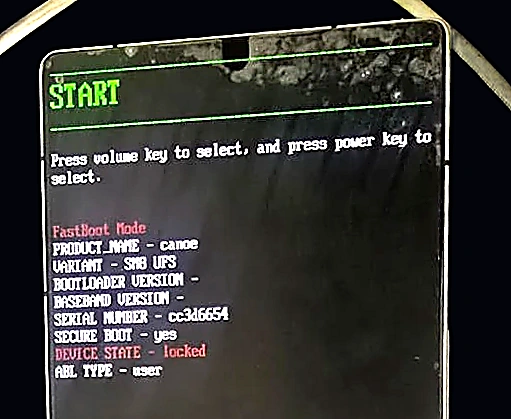
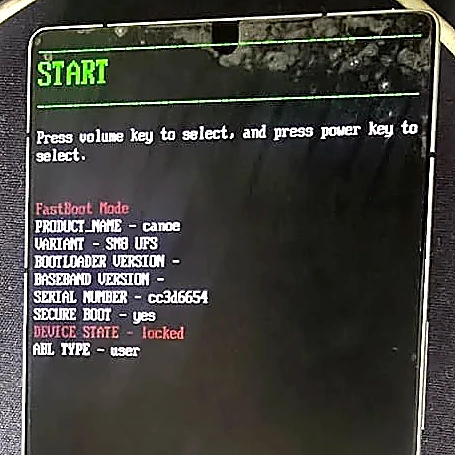
Sharpen phone photos without matting, add real abl flash/unlock-warning screenshots, downloads-organizer script
Re-did the 6 phone photos with a tight crop straight off the source
(no background-removal matting, which was the actual cause of the
remaining blur) instead of further sharpening an already-degraded
image. Found and added three more real ZTE Family Toolbox screenshots
from the original export: the actual abl_a/abl_b flash log with
"刷入完成", the unlock disclaimer screen, and the live 9008 reconnect
during the retry - so Fase 03-05 each have their own real image
instead of one shared screenshot. Also added the corrupted-firmware
7-Zip error as evidence for that troubleshooting row, a model-family
callout answering "does this work on other RedMagic phones", a
RustDesk note in the help section, and an explicit "where do downloads
go" sub-step with a PowerShell script (Organize-RedMagicDownloads.ps1)
that sorts the downloaded tools into C:\ZTE automatically.

diff --git a/src/pages/RootRedMagic11Pro.jsx b/src/pages/RootRedMagic11Pro.jsx
@@ -13,6 +13,11 @@ import toolboxSession from '../assets/redmagic-guide/toolbox-session.webp'
 import toolboxOpening from '../assets/redmagic-guide/toolbox-opening.webp'
 import toolboxMenu from '../assets/redmagic-guide/toolbox-menu.webp'
 import toolboxModelSelect from '../assets/redmagic-guide/toolbox-model-select.webp'
+import toolboxUnlockWarningText from '../assets/redmagic-guide/toolbox-unlock-warning-text.webp'
+import toolboxAblFlash from '../assets/redmagic-guide/toolbox-abl-flash.webp'
+import toolboxUnlockRun from '../assets/redmagic-guide/toolbox-unlock-run.webp'
+import downloadsFolder from '../assets/redmagic-guide/downloads-folder.webp'
+import firmwareCorruptError from '../assets/redmagic-guide/firmware-corrupt-error.webp'
 
 // Foto real con su etiqueta, para las capturas del proceso (no mockups).
 function Shot({ src, alt, caption, wide }) {
@@ -129,12 +134,50 @@ export default function RootRedMagic11Pro() {
             <span className="tag">Leer esto primero</span>
             <p>Desbloquear el bootloader <strong>borra todos los datos del telefono</strong>. Hacemos un respaldo completo antes de tocar nada, pero es tu responsabilidad confirmarlo. Tambien se pierde la garantia oficial y puede fallar el lector de huellas (tiene arreglo, mas adelante). Nadie te puede garantizar cero riesgo — nosotros tampoco. Lo hacemos con cuidado, no a ciegas.</p>
           </div>
+          <div className="rm-callout">
+            <span className="tag">¿Sirve para otros RedMagic?</span>
+            <p>El metodo en si (ZTE Family Toolbox + downgrade del <code className="mono">abl</code> si hace falta + Magisk) cubre a toda la familia — el toolbox trae mas de 30 modelos de RedMagic, Nubia y ZTE en su menu, no solo el 11 Pro. Lo que <strong>no</strong> se puede copiar entre modelos es la version exacta de firmware viejo (Fase 04): cada modelo tiene su propio umbral de version vulnerable y su propia URL de descarga. Si tienes otro RedMagic, sigue la guia igual, pero busca el firmware viejo <em>de tu modelo</em> en vez del NX809J.</p>
+          </div>
         </section>
 
         <section className="rm-phase" id="fase-1">
           <div className="rm-phase-head"><span className="rm-phase-num">01</span><div><h2>Preparar la PC</h2><p className="sub">Las herramientas base, todas de fuentes oficiales</p></div></div>
-          <p>Instala <strong>Android SDK Platform-Tools</strong> (adb + fastboot) directo de Google, y el <strong>driver Qualcomm USB</strong> — este ultimo ahora lo publica el propio Qualcomm, firmado, en GitHub. Antes habia que buscarlo en mirrors dudosos; ya no.</p>
-          <p>Activa <strong>Depuracion USB</strong> en el telefono: Ajustes → Acerca del telefono → toca 7 veces &quot;Numero de compilacion&quot; → Opciones de desarrollador → Depuracion USB.</p>
+
+          <div className="rm-substeps">
+            <SubStep n="1.1" title="Descarga las herramientas base" expect="Android SDK Platform-Tools y el driver Qualcomm USB, listos en tu carpeta de Descargas.">
+              <p>Instala <strong>Android SDK Platform-Tools</strong> (adb + fastboot) directo de Google, y el <strong>driver Qualcomm USB</strong> — este ultimo ahora lo publica el propio Qualcomm, firmado, en GitHub. Antes habia que buscarlo en mirrors dudosos; ya no. Los enlaces exactos estan en la seccion Recursos, al final de la guia.</p>
+              <p>Activa tambien <strong>Depuracion USB</strong> en el telefono: Ajustes → Acerca del telefono → toca 7 veces &quot;Numero de compilacion&quot; → Opciones de desarrollador → Depuracion USB.</p>
+            </SubStep>
+
+            <SubStep n="1.2" title="Organiza todo en una sola carpeta" expect="Una carpeta C:\ZTE con el toolbox, el firmware y las herramientas, cada cosa en su lugar.">
+              <p>A esta altura vas a tener varios archivos sueltos en Descargas — asi se veian los nuestros antes de mover nada:</p>
+              <Shot src={downloadsFolder} alt="Carpeta de Descargas de Windows con Magisk, ZTE Family Toolbox, el driver Qualcomm y el firmware ya descargados" caption="Lo que necesitas, todo descargado — antes de organizarlo." />
+              <p>Para no perderte despues, muevelos asi (la guia asume esta estructura en los comandos que siguen):</p>
+              <div className="rm-table-wrap">
+                <table className="rm-table">
+                  <thead><tr><th>Archivo descargado</th><th>Va en</th></tr></thead>
+                  <tbody>
+                    <tr><td className="strong">platform-tools (zip)</td><td><code className="mono">C:\ZTE\Tools</code> — descomprimido ahi mismo</td></tr>
+                    <tr><td className="strong">Driver Qualcomm USB</td><td><code className="mono">C:\ZTE\Tools</code></td></tr>
+                    <tr><td className="strong">ZTE Family Toolbox (.7z)</td><td><code className="mono">C:\ZTE\Toolbox</code> — descomprimido ahi mismo</td></tr>
+                    <tr><td className="strong">Firmware viejo (update.zip)</td><td><code className="mono">C:\ZTE\Firmware</code></td></tr>
+                    <tr><td className="strong">Magisk (APK)</td><td><code className="mono">C:\ZTE\Magisk</code></td></tr>
+                  </tbody>
+                </table>
+              </div>
+              <p>Si prefieres no mover cada archivo a mano, hay un script que hace exactamente esta tabla por ti: crea las carpetas, busca cada archivo en Descargas/Escritorio por su nombre, lo copia a su lugar (nunca borra el original) y te abre las carpetas que vas a usar primero.</p>
+              <Term label="PowerShell — PC" copy={'cd ~\\Downloads\\redmagic; .\\Organize-RedMagicDownloads.ps1'}>
+                <span className="prompt-char">PS&gt;</span> <span className="cmd">.\Organize-RedMagicDownloads.ps1</span>{'\n'}[1] Creando C:\ZTE y sus subcarpetas{'\n'}  OK -&gt; C:\ZTE listo (Tools, Toolbox, Firmware, OldAbl, Magisk){'\n'}[2] Buscando cada herramienta{'\n'}  OK -&gt; ZTE Family Toolbox -&gt; ZTE Family Toolbox 1.2.1-beta3.7z{'\n'}[3] Copiando 4 archivo(s) a C:\ZTE{'\n'}[4] Abriendo las carpetas que vas a necesitar ahora
+              </Term>
+              <div className="rm-help-row" style={{ marginTop: 4 }}>
+                <a className="rm-help-btn discord" href="/downloads/redmagic/Organize-RedMagicDownloads.ps1" download>Descargar Organize-RedMagicDownloads.ps1</a>
+              </div>
+              <div className="rm-callout">
+                <span className="tag">Antes de correrlo</span>
+                <p>Es un script de PowerShell comun y corriente — <strong>abrelo con el Bloc de notas y leelo</strong> antes de ejecutarlo, como harias con cualquier script que te bajas de internet. Solo copia archivos dentro de tu propio PC (de Descargas/Escritorio a <code className="mono">C:\ZTE</code>); no descarga nada, no toca el telefono ni escribe en ninguna particion.</p>
+              </div>
+            </SubStep>
+          </div>
         </section>
 
         <section className="rm-phase" id="fase-2">
@@ -172,7 +215,9 @@ export default function RootRedMagic11Pro() {
             </SubStep>
 
             <SubStep n="3.3" title="Ejecuta la opcion de desbloqueo" expect="Al final, un mensaje en rojo que dice 解锁失败 (desbloqueo fallido) — si tu build es reciente, esto es normal, sigue a la Fase 04.">
-              <p>En el menu principal escribe <code className="mono">0</code> y presiona Enter (esa opcion dice <code className="mono">解锁BL</code> = Desbloquear Bootloader). Confirma las advertencias que aparezcan presionando cualquier tecla. Si tu build es reciente, termina asi:</p>
+              <p>En el menu principal escribe <code className="mono">0</code> y presiona Enter (esa opcion dice <code className="mono">解锁BL</code> = Desbloquear Bootloader). Primero te muestra una advertencia real — leela, dice exactamente que arriesgas y que necesitas tener listo antes de seguir:</p>
+              <Shot src={toolboxUnlockWarningText} alt="Advertencia real del ZTE Family Toolbox antes de desbloquear: perdida de garantia, formateo de datos, requisitos previos" caption="La advertencia completa, tal cual aparece — leela antes de presionar cualquier tecla." />
+              <p>Confirma presionando cualquier tecla. Si tu build es reciente, termina asi:</p>
               <Term label="ZTE Family Toolbox">
                 刷入解锁程序...{'\n'}设置自动恢复出厂...{'\n'}<span className="fail">解锁失败。请加交流群反馈。</span>
               </Term>
@@ -195,6 +240,14 @@ export default function RootRedMagic11Pro() {
           <div className="rm-substeps">
             <SubStep n="4.1" title="Descarga el firmware viejo, de la fuente oficial" expect="Un archivo update.zip de varios GB descargandose desde rom.download.nubia.com.">
               <p>Nubia no lo anuncia en su pagina, pero su servidor sigue sirviendo versiones antiguas si conoces la URL exacta (esta en la seccion Recursos, al final). Para la region Europa/EEA usamos la version <code className="mono">11.0.16MR1_EA</code> — cualquier version <strong>11.0.18 o anterior</strong> sirve igual.</p>
+              <div className="rm-snagfix">
+                <div className="line" />
+                <div className="boxes">
+                  <div className="rm-box snag"><span className="tag">Nos paso a nosotros</span><p>Un primer intento desde un mirror de comunidad nos dio esto al extraerlo:</p></div>
+                  <div className="rm-box fix"><span className="tag">Solucion</span><p>Era un archivo subido incompleto en ese mirror — nada que ver con nuestra conexion. Cambiamos al servidor oficial de Nubia (<code className="mono">rom.download.nubia.com</code>) y se descargo completo, con el SHA1 verificado.</p></div>
+                </div>
+              </div>
+              <Shot src={firmwareCorruptError} alt="Error real de 7-Zip: Unexpected end of archive, Open ERROR: Cannot open the file as 7z archive" caption="Esto es lo que ves si el archivo quedo incompleto — no es un error tuyo, es el mirror." wide />
             </SubStep>
 
             <SubStep n="4.2" title="Extrae solo la pieza que necesitas (abl.img)" expect="abl (242 kB) [=====...] 100% — una carpeta nueva con un archivo abl.img adentro.">
@@ -211,7 +264,9 @@ export default function RootRedMagic11Pro() {
                 <p>Con el telefono encendido y conectado: <code className="mono">adb reboot edl</code>. La pantalla se queda completamente negra — asi se ve EDL, sin interfaz. Si el PC no lo reconoce, instala el driver Qualcomm oficial (Fase 01) y revisa el Administrador de dispositivos: debe aparecer como &quot;Qualcomm HS-USB QDLoader 9008&quot;.</p>
               </div>
               <p>Ya en el menu principal del toolbox, escribe <code className="mono">12</code> y Enter (esa opcion dice <code className="mono">刷入任意分区</code> = flashear particion especifica). Cuando pida el nombre, escribe <code className="mono">abl_a</code> y selecciona tu <code className="mono">abl.img</code> viejo. Cuando termine, el programa vuelve a preguntar el nombre de particion — repite todo escribiendo <code className="mono">abl_b</code> esta vez (el telefono guarda dos copias, slot A y B, hay que reemplazar ambas).</p>
-              <p>Asi se ve el toolbox corriendo esta parte en la practica — fijate que primero detecta el telefono, pide seleccionar el archivo, y confirma con <code className="mono">刷入完成</code>:</p>
+              <p>Esto es exactamente lo que vimos en nuestra pantalla — los dos flasheos, uno tras otro, cada uno terminando en <code className="mono">刷入完成</code>:</p>
+              <Shot src={toolboxAblFlash} alt="ZTE Family Toolbox flasheando abl_a y luego abl_b desde C:\ZTE\OldAbl\abl.img, cada uno confirmando 刷入完成" caption="abl_a y abl_b, flasheados uno despues del otro — captura real, sin editar." />
+              <p>El resto de la sesion completa — desde que el toolbox detecta el telefono hasta el final — se ve asi:</p>
               <Shot src={toolboxSession} alt="Ventana de ZTE Family Toolbox mostrando el procedimiento completo de desbloqueo en chino, con progreso en tiempo real" caption="Captura real de la herramienta, sin editar." />
             </SubStep>
           </div>
@@ -223,6 +278,8 @@ export default function RootRedMagic11Pro() {
           <div className="rm-substeps">
             <SubStep n="5.1" title="Corre la Opcion 0 de nuevo" expect="El telefono se reinicia varias veces solo. No lo toques, no desconectes el cable.">
               <p>Con el <code className="mono">abl</code> viejo ya en el telefono (fin de la Fase 04), vuelve al menu principal de ZTE Family Toolbox y corre de nuevo la opcion <code className="mono">0. 解锁BL</code> — exactamente igual que en el Paso 3.3. Este proceso <strong>va a borrar todos los datos</strong> (ya tienes tu respaldo de la Fase 02).</p>
+              <p>Esta vez el toolbox reconecta el telefono en modo 9008 solo, sin que falle — asi se ve en vivo:</p>
+              <Shot src={toolboxUnlockRun} alt="ZTE Family Toolbox reconectando el telefono en modo 9008 para el segundo intento de desbloqueo" caption="El reintento, funcionando — reconexion 9008 en tiempo real." />
             </SubStep>
 
             <SubStep n="5.2" title="Confirma el resultado — no te quedes con la duda" expect="DEVICE STATE - unlocked (en rojo o verde, da igual el color, lo que importa es la palabra).">
@@ -315,6 +372,10 @@ export default function RootRedMagic11Pro() {
             <a className="rm-help-btn discord" href={socialLinks.discord} target="_blank" rel="noopener noreferrer">Discord</a>
           </div>
           <p className="rm-help-note">Estoy activo en ambos — TikTok suele ser mas rapido, pero Discord es mejor si necesitas mandar capturas o logs largos.</p>
+          <div className="rm-callout">
+            <span className="tag">Si quieres que te ayude controlando tu PC a distancia</span>
+            <p>Para eso uso <strong>RustDesk</strong> (gratis, open source). Antes de escribirme, descargalo e instalalo en tu PC desde <a href="https://rustdesk.com/" target="_blank" rel="noopener noreferrer">rustdesk.com</a> y dejalo abierto — te voy a pedir el ID y la contraseña de la ventana principal para conectarme. Nunca te voy a pedir que instales nada mas, ni que entres a otra pagina.</p>
+          </div>
         </section>
 
         <div className="rm-footer-note">
